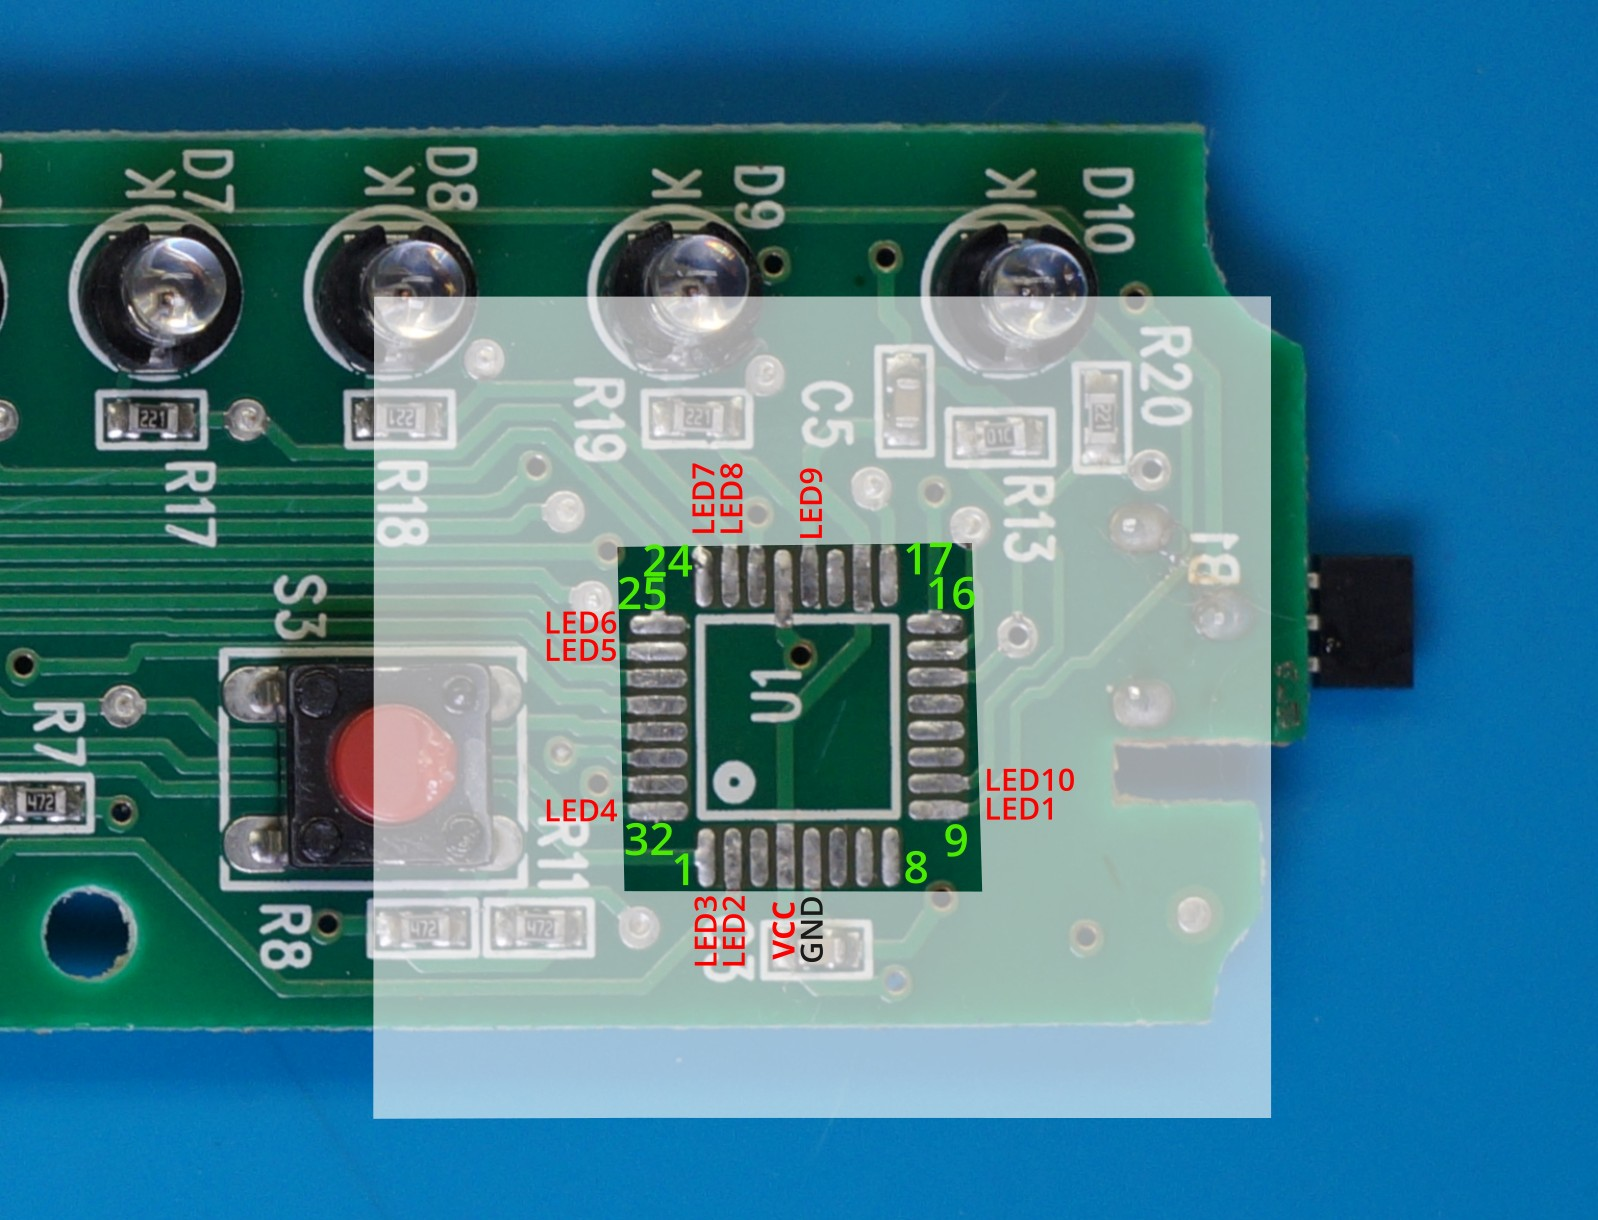
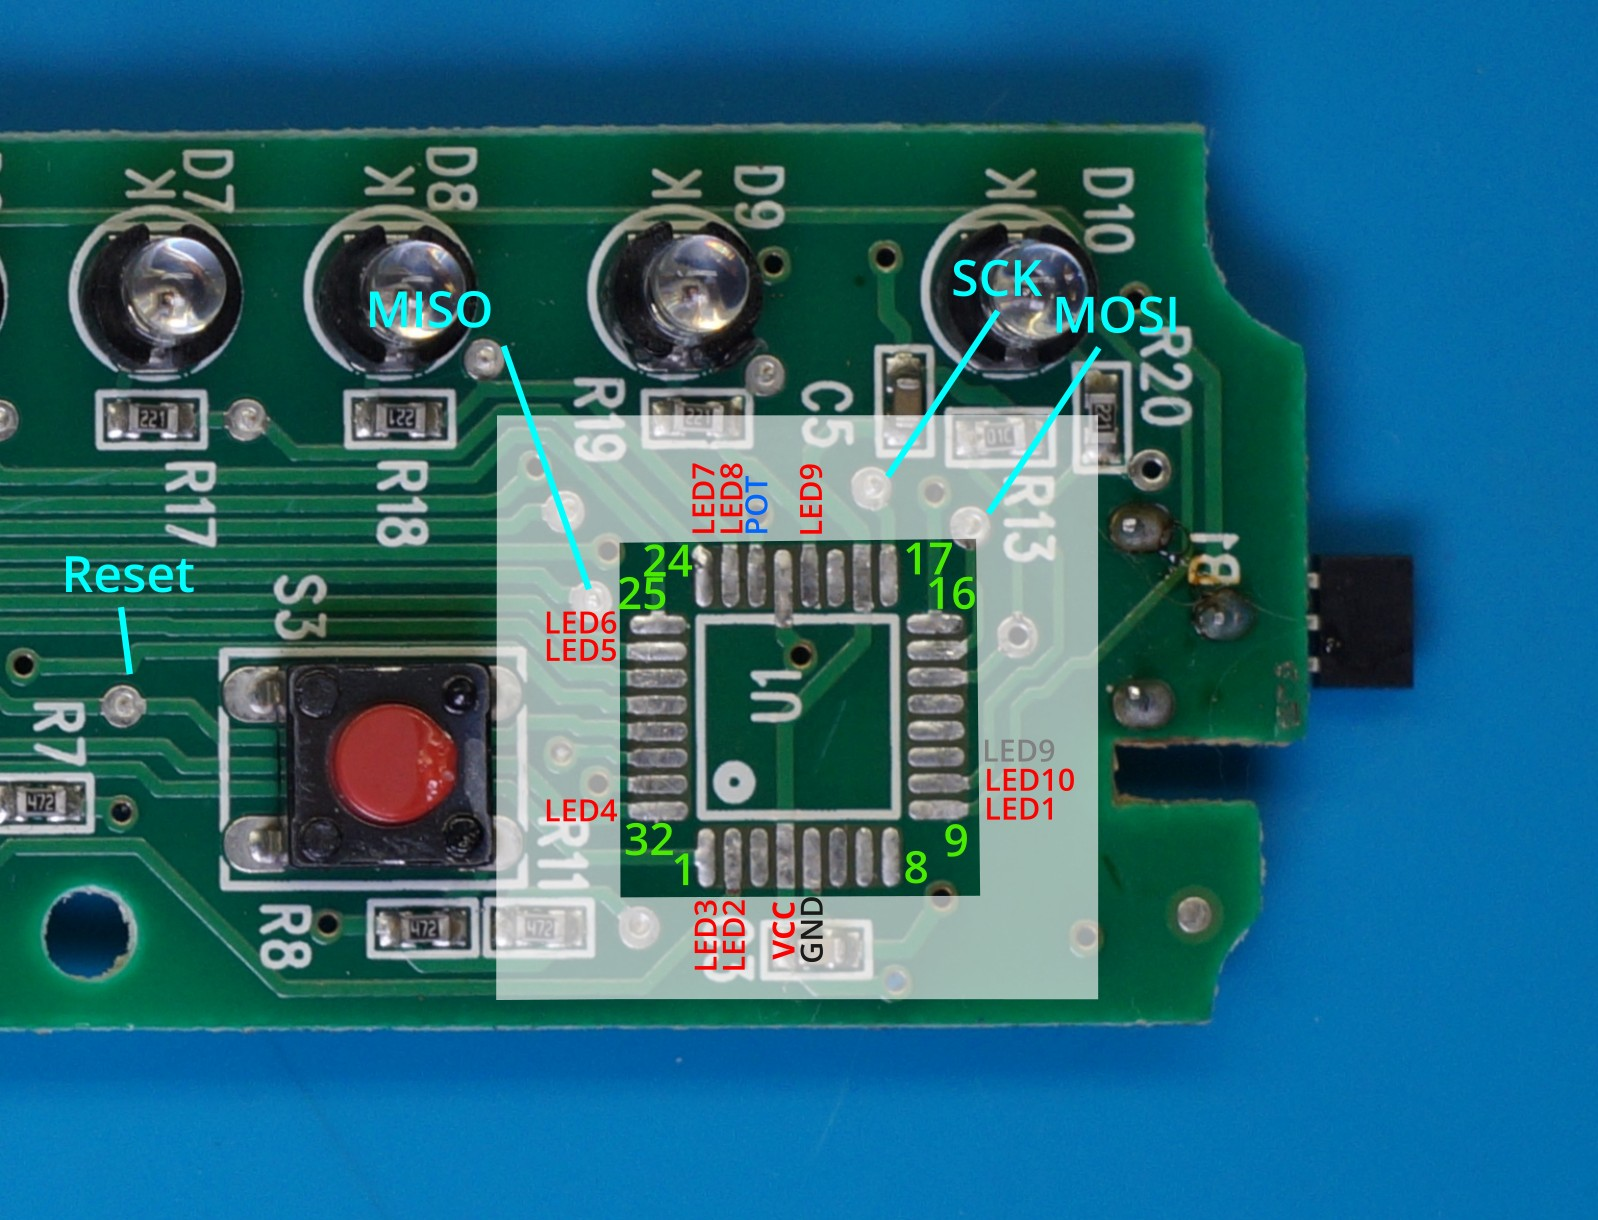
Test

diff --git a/firmware/display/main.c b/firmware/display/main.c
@@ -1,13 +1,112 @@
 #include <avr/io.h>
 #include <util/delay.h>
 
-int main() {
-    DDRD = 0xFF;
+#define LED1_PIN PD5
+#define LED2_PIN PD4
+#define LED3_PIN PD3
+#define LED4_PIN PD2
+#define LED5_PIN PC3
+#define LED6_PIN PC2
+#define LED7_PIN PC1
+#define LED8_PIN PC0
+#define LED9_PIN PD7
+#define LED10_PIN PD6
 
-    while (1) {
-        PORTD = 0xFF;
-        _delay_ms(500);
-        PORTD = 0x00;
-        _delay_ms(500);
+void set_led_by_index(uint8_t index, uint8_t value)
+{
+    if (index == 0)
+    {
+        if (value)
+            PORTD |= (1 << LED1_PIN);
+        else
+            PORTD &= ~(1 << LED1_PIN);
+    }
+    else if (index == 1)
+    {
+        if (value)
+            PORTD |= (1 << LED2_PIN);
+        else
+            PORTD &= ~(1 << LED2_PIN);
+    }
+    else if (index == 2)
+    {
+        if (value)
+            PORTD |= (1 << LED3_PIN);
+        else
+            PORTD &= ~(1 << LED3_PIN);
+    }
+    else if (index == 3)
+    {
+        if (value)
+            PORTD |= (1 << LED4_PIN);
+        else
+            PORTD &= ~(1 << LED4_PIN);
+    }
+    else if (index == 4)
+    {
+        if (value)
+            PORTC |= (1 << LED5_PIN);
+        else
+            PORTC &= ~(1 << LED5_PIN);
+    }
+    else if (index == 5)
+    {
+        if (value)
+            PORTC |= (1 << LED6_PIN);
+        else
+            PORTC &= ~(1 << LED6_PIN);
+    }
+    else if (index == 6)
+    {
+        if (value)
+            PORTC |= (1 << LED7_PIN);
+        else
+            PORTC &= ~(1 << LED7_PIN);
+    }
+    else if (index == 7)
+    {
+        if (value)
+            PORTC |= (1 << LED8_PIN);
+        else
+            PORTC &= ~(1 << LED8_PIN);
+    }
+    else if (index == 8)
+    {
+        if (value)
+            PORTD |= (1 << LED9_PIN);
+        else
+            PORTD &= ~(1 << LED9_PIN);
+    }
+    else if (index == 9)
+    {
+        if (value)
+            PORTD |= (1 << LED10_PIN);
+        else
+            PORTD &= ~(1 << LED10_PIN);
+    }
+}
+
+int main()
+{
+    DDRD = 0xFF;
+    DDRC = 0xFF;
+
+    while (1)
+    {
+        for (uint8_t i = 0; i < 10; i++)
+        {
+            PORTD = 0x00;
+            PORTC = 0x00;
+            set_led_by_index(i, 1);
+            _delay_ms(50);
+        }
+
+        for (uint8_t i = 0; i < 10; i++)
+        {
+            PORTD = 0x00;
+            PORTC = 0x00;
+            set_led_by_index(9 - i, 1);
+            _delay_ms(50);
+        }
     }
 }
